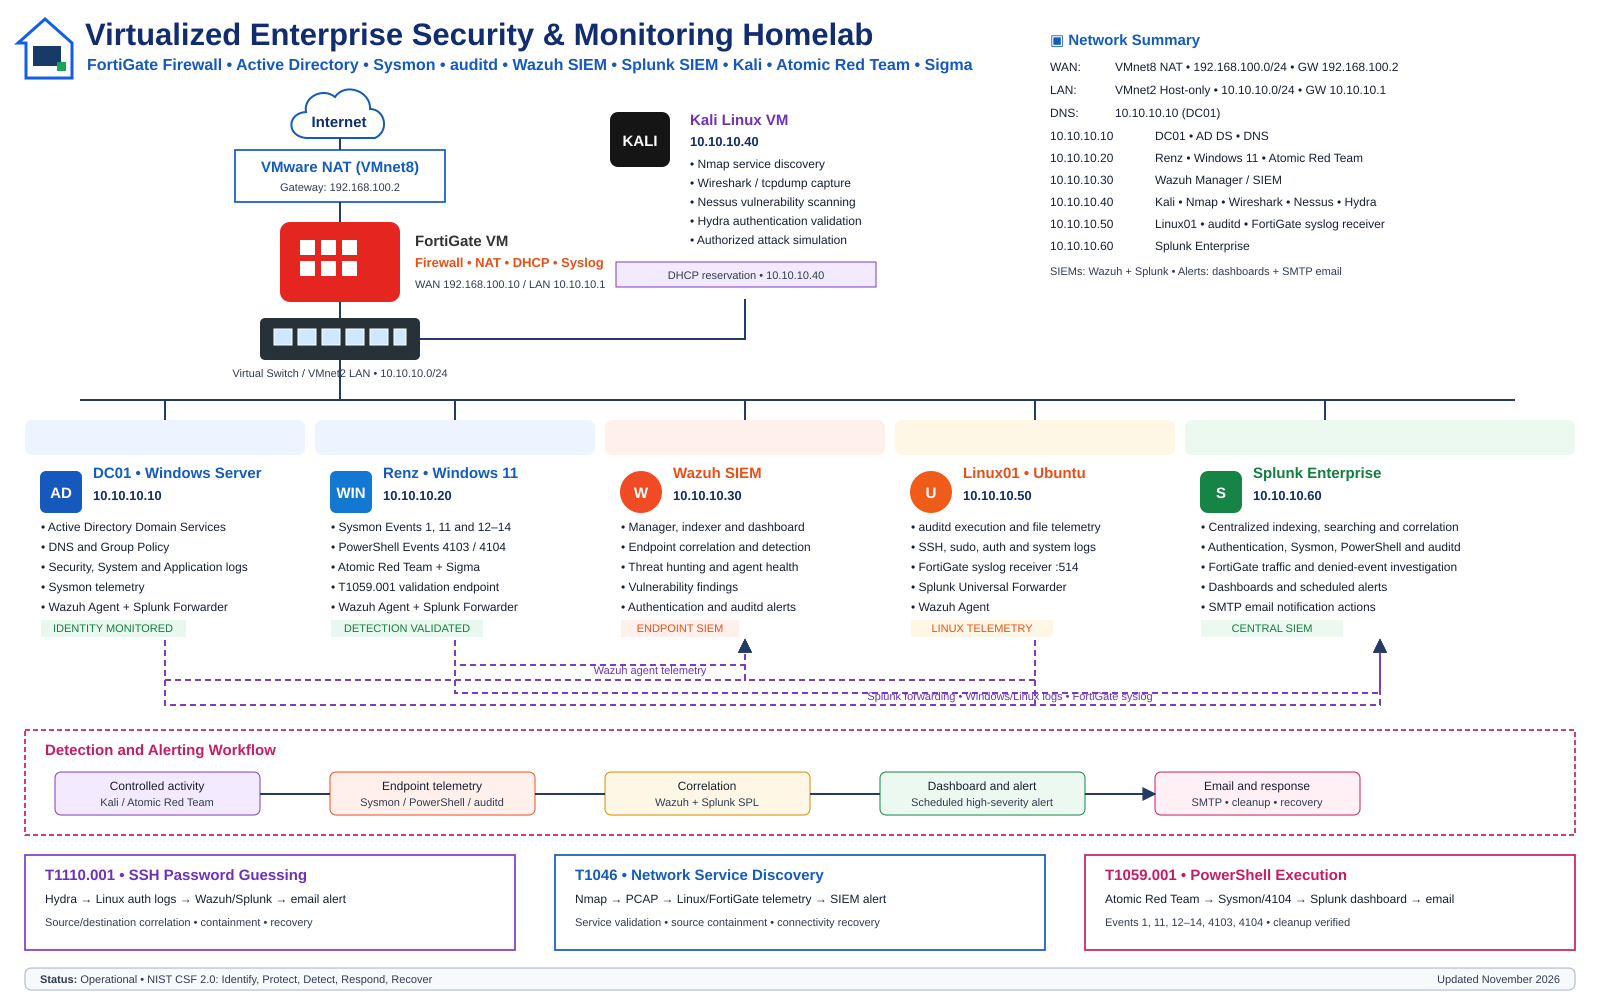
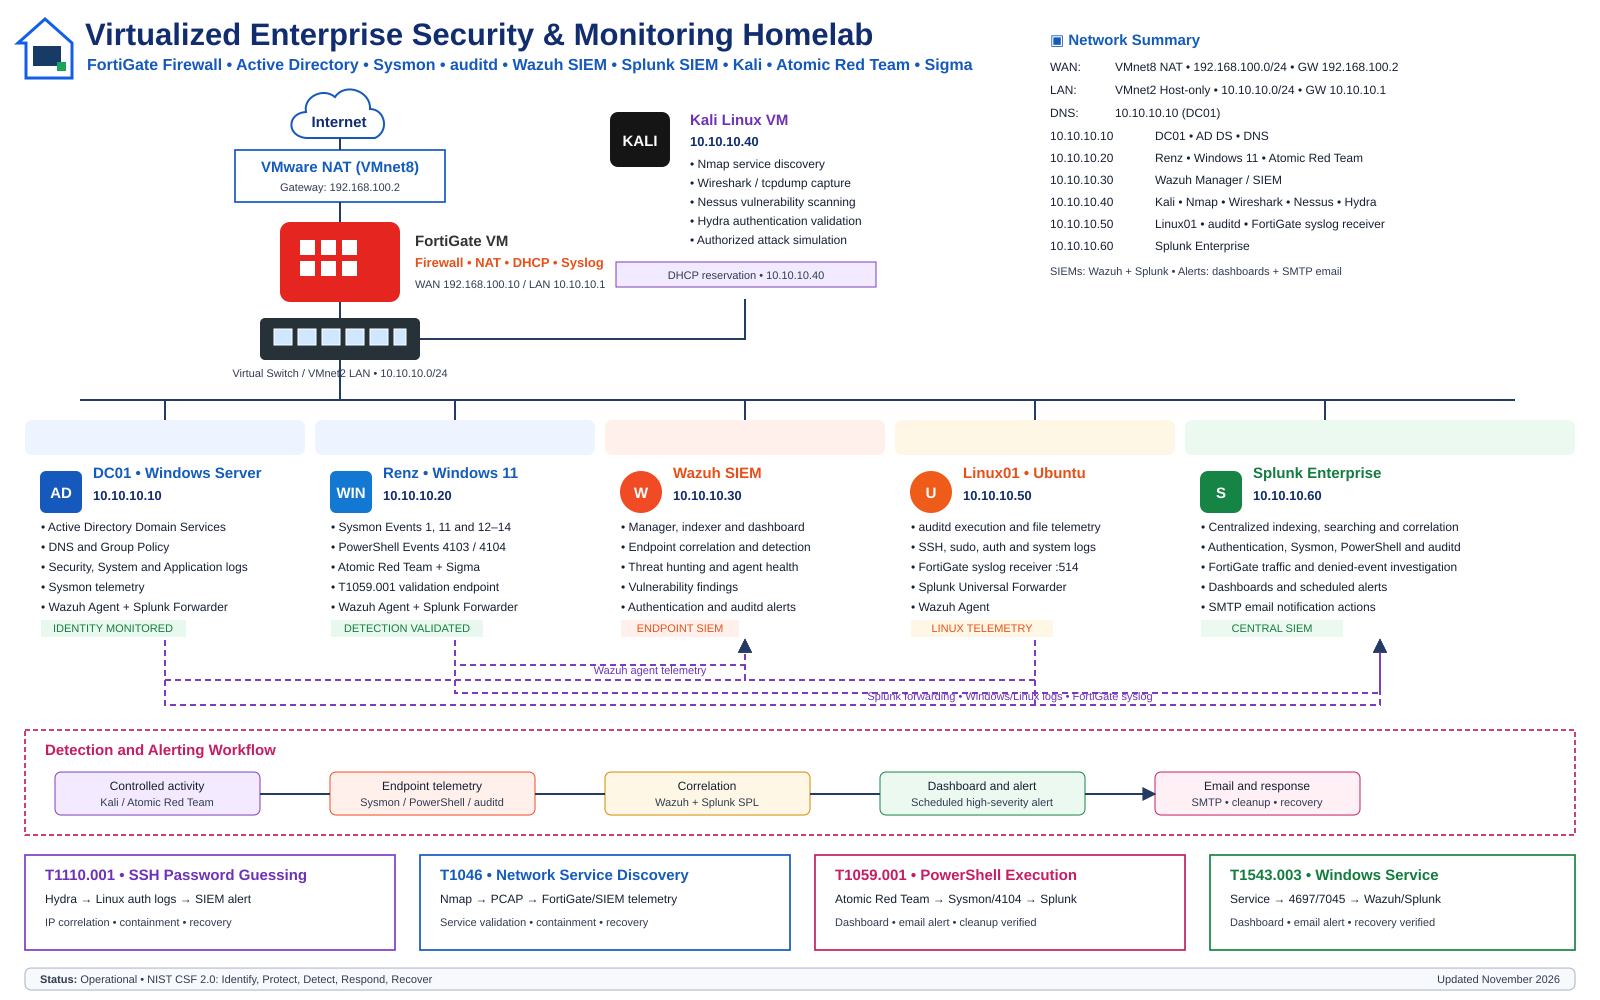
Document T1543.003 service creation detection

Changed region(s): [[0.2812, 0.868, 0.9062, 0.93], [0.0312, 0.868, 0.2188, 0.93]]

diff --git a/tests/T1543-003-windows-service-creation/NIST-MITRE-Windows-Service-Creation.md b/tests/T1543-003-windows-service-creation/NIST-MITRE-Windows-Service-Creation.md
@@ -1,0 +1,157 @@
+# NIST and MITRE Windows Service Creation Detection
+
+## Test summary
+
+| Field | Value |
+|---|---|
+| Test ID | `T1543.003-SVC-001` |
+| Test date | November 5, 2026 |
+| Status | Completed |
+| MITRE ATT&CK | `T1543.003 - Create or Modify System Process: Windows Service` |
+| Target | Renz - Windows 11 - `10.10.10.20` |
+| Test service | `T1543LabService` |
+| SIEM platforms | Wazuh and Splunk Enterprise |
+| Authorization | Privately owned isolated homelab |
+
+## Overview
+
+This exercise validated an end-to-end detection and response workflow for Windows service creation. A harmless manual-start service was created on the Windows 11 endpoint, detected through native Windows and Sysmon telemetry, investigated in Wazuh and Splunk, converted into a dashboard and scheduled alert, delivered through SMTP email, and removed during recovery.
+
+## Objectives
+
+1. Establish endpoint and SIEM telemetry baselines.
+2. Enable Windows service-installation auditing.
+3. Create a controlled temporary service without starting it.
+4. Validate System Event `7045` and Security Event `4697`.
+5. Review related Sysmon process and registry telemetry.
+6. Correlate the activity in Wazuh and Splunk.
+7. Create a Splunk dashboard panel and high-severity alert.
+8. Verify the triggered-alert and SMTP notification workflows.
+9. Remove the service and confirm endpoint recovery.
+
+## Scope and safety controls
+
+- Testing was limited to the privately owned Windows 11 VM named `Renz`.
+- The service used a unique lab-only name: `T1543LabService`.
+- Startup type was set to manual.
+- The service was not started.
+- Existing Windows services were not modified.
+- A pre-test service inventory was exported before execution.
+
+## NIST CSF 2.0 mapping
+
+| Function | Activity |
+|---|---|
+| Identify | Defined the target, service name, telemetry sources and expected behavior |
+| Protect | Enabled auditing and confirmed Sysmon, Wazuh and Splunk Forwarder health |
+| Detect | Collected and correlated Events `4697`, `7045` and relevant Sysmon events |
+| Respond | Investigated the activity and triggered a high-severity Splunk alert and email |
+| Recover | Deleted the service and verified removal of the service and registry key |
+
+## Telemetry validated
+
+| Source | Event ID | Purpose |
+|---|---:|---|
+| Windows System | `7045` | New service installed |
+| Windows Security | `4697` | Service installation audit event |
+| Sysmon | `1` | `sc.exe` process activity |
+| Sysmon | `12-14` | Available service-registry activity |
+| Wazuh | Multiple | Endpoint event decoding, rules and severity |
+| Splunk | Multiple | Central search, correlation, dashboard and alerting |
+
+## Controlled execution
+
+The service was created from an elevated PowerShell session:
+
+```powershell
+New-Service `
+  -Name "T1543LabService" `
+  -BinaryPathName "C:\Windows\System32\cmd.exe /c exit 0" `
+  -DisplayName "T1543.003 Lab Service" `
+  -StartupType Manual
+```
+
+The service configuration was verified with:
+
+```powershell
+sc.exe qc T1543LabService
+```
+
+## Investigation workflow
+
+1. Verified endpoint identity, monitoring services and event-log availability.
+2. Enabled the `Security System Extension` audit subcategory.
+3. Confirmed Security, System and Sysmon inputs in the Splunk Universal Forwarder.
+4. Exported a pre-test Windows service inventory.
+5. Created and inspected `T1543LabService`.
+6. Confirmed local Events `7045` and `4697`.
+7. Reviewed matching Sysmon activity.
+8. Correlated service events in Splunk by host, event ID, service name and path.
+9. Reviewed the Wazuh event, rule level and description.
+10. Added the detection to a Splunk dashboard.
+11. Created a scheduled alert with Triggered Alerts and SMTP email actions.
+12. Removed the service and verified recovery.
+
+## Alert configuration
+
+| Setting | Value |
+|---|---|
+| Alert name | MITRE T1543.003 - Windows Service Creation |
+| Type | Scheduled |
+| Frequency | Every minute |
+| Search window | Previous five minutes |
+| Trigger condition | Result count greater than zero |
+| Severity | High |
+| Throttle | Ten minutes by host and service name |
+| Actions | Add to Triggered Alerts and send email |
+
+Reusable Splunk searches are stored in [`splunk-searches.spl`](splunk-searches.spl). Wazuh DQL queries are stored in [`wazuh-queries.txt`](wazuh-queries.txt).
+
+## Results
+
+| Validation | Result |
+|---|---|
+| Endpoint and monitoring-service baseline | Passed |
+| Service-installation auditing | Passed |
+| Controlled service creation | Passed |
+| System Event `7045` | Passed |
+| Security Event `4697` | Passed |
+| Sysmon visibility | Passed |
+| Splunk correlation search | Passed |
+| Wazuh visibility | Passed |
+| Splunk dashboard panel | Passed |
+| High-severity triggered alert | Passed |
+| SMTP email notification | Passed |
+| Service cleanup and recovery | Passed |
+
+## Cleanup and recovery
+
+```powershell
+sc.exe delete T1543LabService
+
+Get-Service T1543LabService -ErrorAction SilentlyContinue
+Test-Path "HKLM:\SYSTEM\CurrentControlSet\Services\T1543LabService"
+```
+
+The service no longer appeared in the Windows service inventory, and the corresponding registry path was removed. Historical Wazuh and Splunk events were retained as evidence.
+
+## Evidence
+
+The [`screenshots`](screenshots/) directory contains 20 sanitized screenshots covering the baseline, controlled execution, local Windows events, Sysmon, Wazuh, Splunk, dashboard, alert, email notification and recovery. The complete evidence index is available in [`screenshots/README.md`](screenshots/README.md).
+
+## Lessons learned
+
+- Native Windows System and Security events provide authoritative service-installation evidence.
+- Sysmon adds process and registry context when the active configuration includes the relevant rules.
+- Short scheduled-alert windows require a fresh test event for reliable validation.
+- Adding both Triggered Alerts and email actions preserves local SIEM history and external notification evidence.
+- A unique lab service name simplifies correlation across endpoint, Wazuh and Splunk data.
+- Cleanup and recovery evidence are required to demonstrate a controlled, repeatable test.
+
+## Conclusion
+
+The exercise successfully demonstrated controlled validation of MITRE ATT&CK technique `T1543.003`. Windows, Sysmon, Wazuh and Splunk telemetry supported investigation, dashboarding, high-severity alerting, email notification and verified recovery without modifying an existing production-style service.
+
+## Disclaimer
+
+All activity was conducted against privately owned virtual machines in an isolated homelab for defensive security education and portfolio development.

diff --git a/README.md b/README.md
@@ -64,6 +64,7 @@ The environment simulates SOC monitoring, centralized telemetry, firewall admini
 - Authored Sigma detections and converted them to Splunk SPL
 - Validated Sysmon Event IDs `1`, `11` and `12-14`
 - Validated PowerShell Operational Event IDs `4103` and `4104`
+- Validated Windows service installation through Security Event `4697`, System Event `7045` and related Sysmon telemetry
 - Built Splunk investigations, dashboards, scheduled alerts and email notifications
 - Documented cleanup, containment, recovery and lessons learned
 
@@ -74,6 +75,7 @@ The environment simulates SOC monitoring, centralized telemetry, firewall admini
 | [SSH Brute Force Detection](tests/T1110-ssh-password-guessing/NIST-MITRE-SSH-Brute-Force-Detection.md) | `T1110`, `T1110.001` | Hydra, Linux authentication logs, Wazuh, Splunk, email, containment and recovery |
 | [Network Service Discovery](tests/T1046-network-service-discovery/NIST-MITRE-Nmap-Network-Service-Discovery.md) | `T1046` | Nmap, PCAP, Linux, Wazuh, Splunk, FortiGate, email, containment and recovery |
 | [PowerShell Execution Validation](tests/T1059-001-powershell-execution-validation/NIST-MITRE-PowerShell-Execution-Validation.md) | `T1059.001` | Atomic Red Team, Sysmon, PowerShell logging, Splunk correlation, dashboard, alert, email and cleanup |
+| [Windows Service Creation](tests/T1543-003-windows-service-creation/NIST-MITRE-Windows-Service-Creation.md) | `T1543.003` | Controlled service installation, Events 4697/7045, Sysmon, Wazuh, Splunk, dashboard, email and recovery |
 
 ## Completed response workflows
 
@@ -100,6 +102,15 @@ The environment simulates SOC monitoring, centralized telemetry, firewall admini
 3. Correlated process creation, script block, registry and file-creation telemetry in Splunk.
 4. Created a dashboard panel and high-severity scheduled alert.
 5. Verified the email workflow and removed the Atomic test artifacts.
+
+### Windows service creation
+
+1. Established Windows service and SIEM telemetry baselines on the Windows 11 endpoint.
+2. Enabled service-installation auditing and created a harmless manual-start test service.
+3. Validated Security Event `4697`, System Event `7045` and related Sysmon activity.
+4. Correlated the service name, binary path, user, host and event timeline in Wazuh and Splunk.
+5. Added a Splunk dashboard panel, high-severity scheduled alert and SMTP notification.
+6. Removed the test service and verified service and registry-key recovery.
 
 ## Documentation
 
@@ -147,10 +158,17 @@ The environment simulates SOC monitoring, centralized telemetry, firewall admini
     ├── T1046-network-service-discovery/
     │   ├── splunk-searches.spl
     │   └── wazuh-queries.txt
-    └── T1059-001-powershell-execution-validation/
-        ├── NIST-MITRE-PowerShell-Execution-Validation.md
+    ├── T1059-001-powershell-execution-validation/
+    │   ├── NIST-MITRE-PowerShell-Execution-Validation.md
+    │   ├── splunk-searches.spl
+    │   └── screenshots/
+    └── T1543-003-windows-service-creation/
+        ├── NIST-MITRE-Windows-Service-Creation.md
         ├── splunk-searches.spl
+        ├── wazuh-queries.txt
         └── screenshots/
+            ├── README.md
+            └── 20 evidence screenshots
 ```
 
 ## Evidence standards
@@ -166,6 +184,7 @@ Only sanitized evidence is published. Passwords, application passwords, API toke
 - Splunk SPL, dashboards, scheduled alerts and email actions
 - Wazuh threat hunting and agent monitoring
 - Detection engineering with Sigma and Atomic Red Team
+- Windows service creation and persistence detection
 - NIST CSF 2.0 and MITRE ATT&CK mapping
 - Vulnerability assessment and packet analysis
 - Incident containment, recovery and technical documentation

diff --git a/tests/T1543-003-windows-service-creation/screenshots/README.md b/tests/T1543-003-windows-service-creation/screenshots/README.md
@@ -1,0 +1,26 @@
+# T1543.003 Evidence Index
+
+| File | Evidence |
+|---|---|
+| `01-endpoint-identity.png` | Target hostname, address and account |
+| `02-monitoring-services-running.png` | Sysmon and Splunk Forwarder health |
+| `03-service-auditing-enabled.png` | Security System Extension auditing |
+| `04-required-event-logs.png` | Security, System and Sysmon channels |
+| `05-splunk-event-inputs.png` | Effective Splunk Forwarder inputs |
+| `06-splunk-telemetry-baseline.png` | Centralized telemetry baseline |
+| `07-services-before-test.png` | Pre-test service inventory |
+| `08-controlled-service-creation.png` | Controlled service installation |
+| `09-created-service-details.png` | Service name, path and startup mode |
+| `10-local-system-event-7045.png` | Native System service-installation event |
+| `11-local-security-event-4697.png` | Security auditing service-installation event |
+| `12-local-sysmon-service-events.png` | Related Sysmon process or registry events |
+| `13-splunk-service-creation-events.png` | Splunk correlation results |
+| `14-wazuh-service-creation-alert.png` | Wazuh event and rule context |
+| `15-splunk-t1543-003-dashboard.png` | Splunk dashboard panel |
+| `16-splunk-t1543-003-alert-config.png` | Scheduled high-severity alert configuration |
+| `17-splunk-t1543-003-alert-triggered.png` | Triggered Alerts evidence |
+| `18-t1543-003-email-alert.png` | SMTP notification evidence |
+| `19-service-cleanup-validation.png` | Service and registry cleanup |
+| `20-service-recovery-validated.png` | Post-test service inventory and recovery |
+
+Evidence must not expose passwords, SMTP application passwords, tokens, cookies or unredacted personal email addresses.
